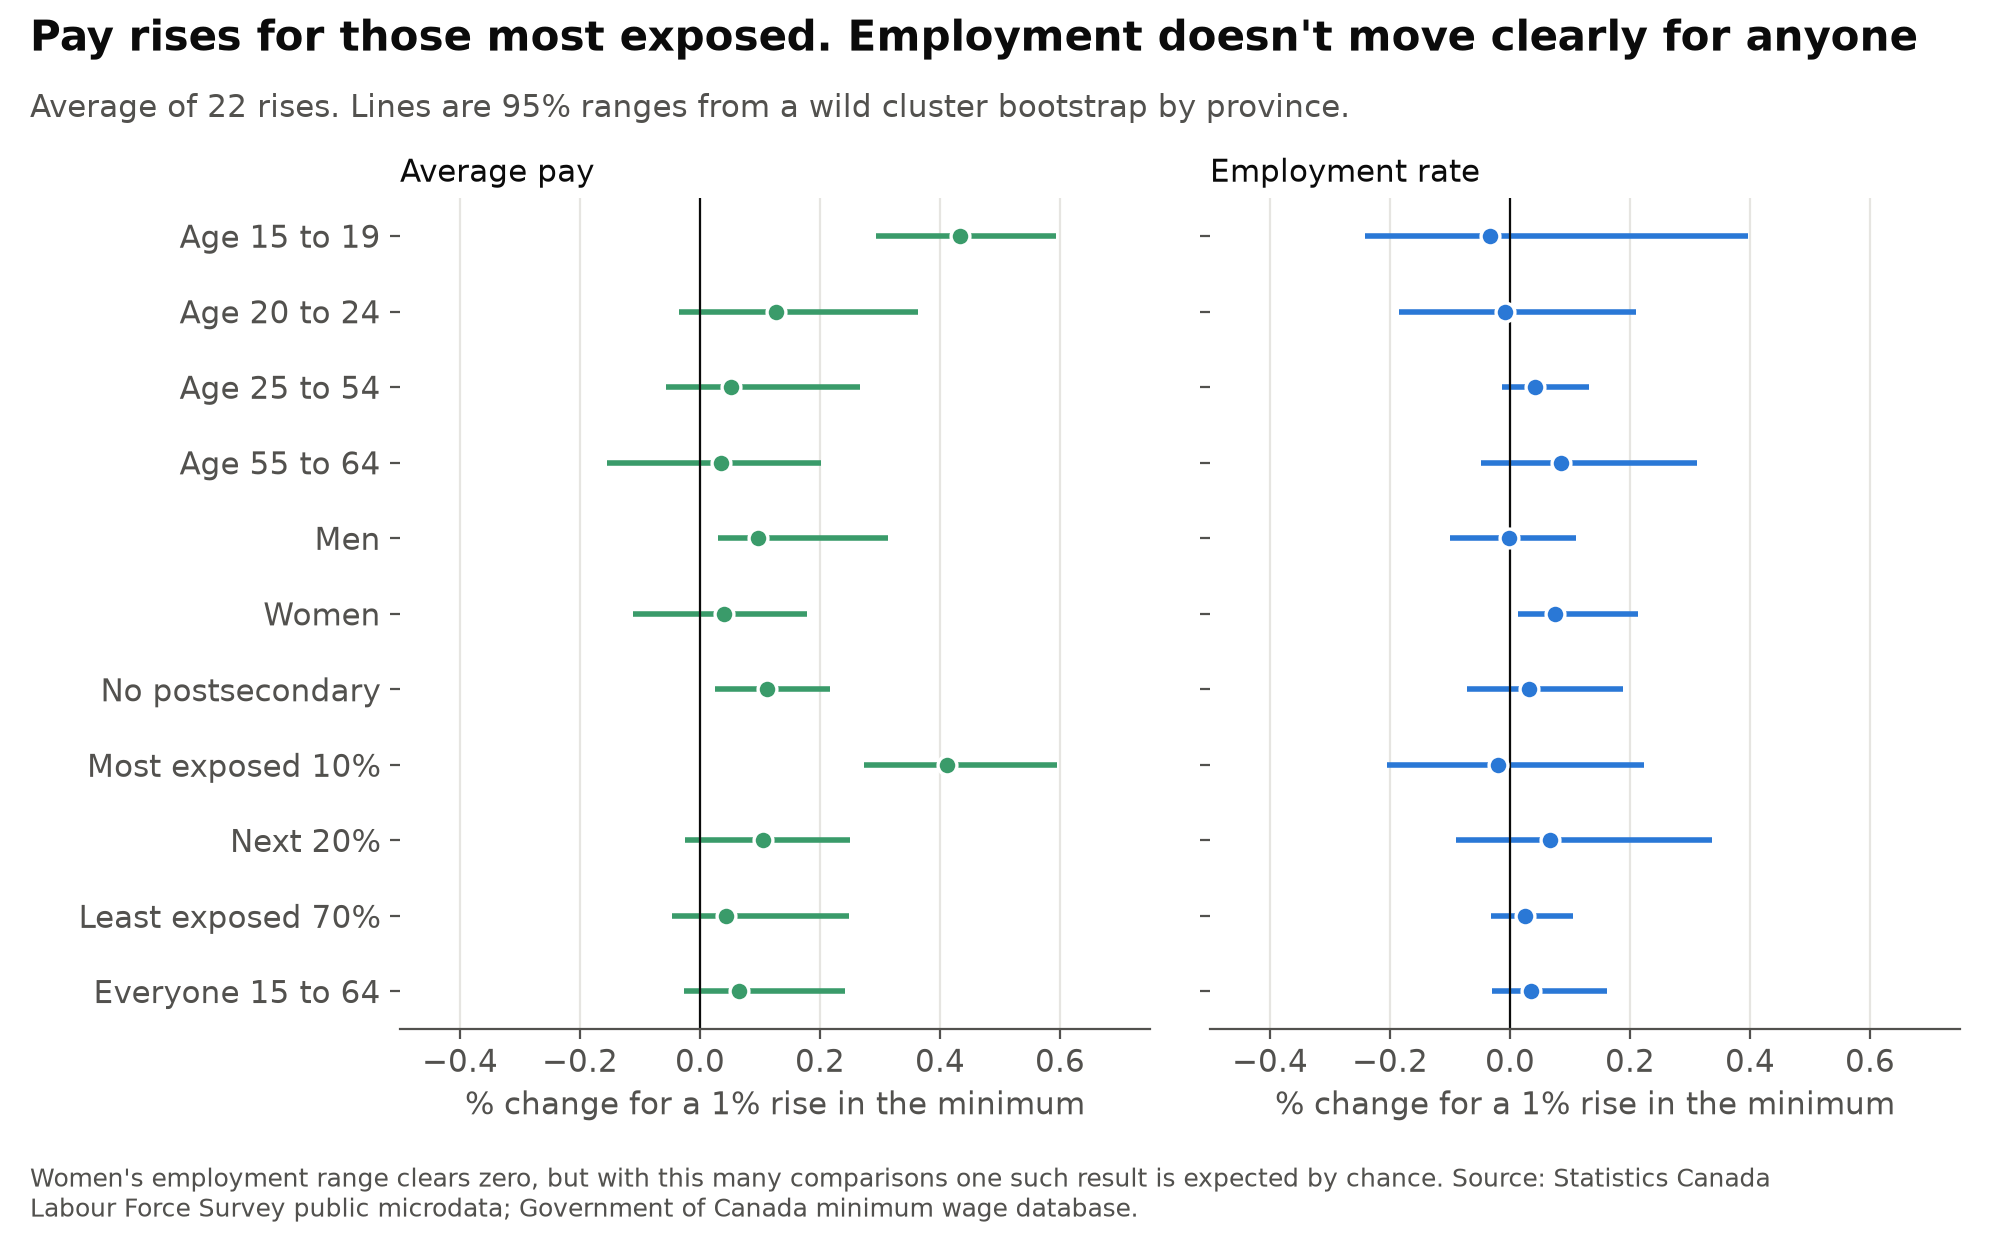
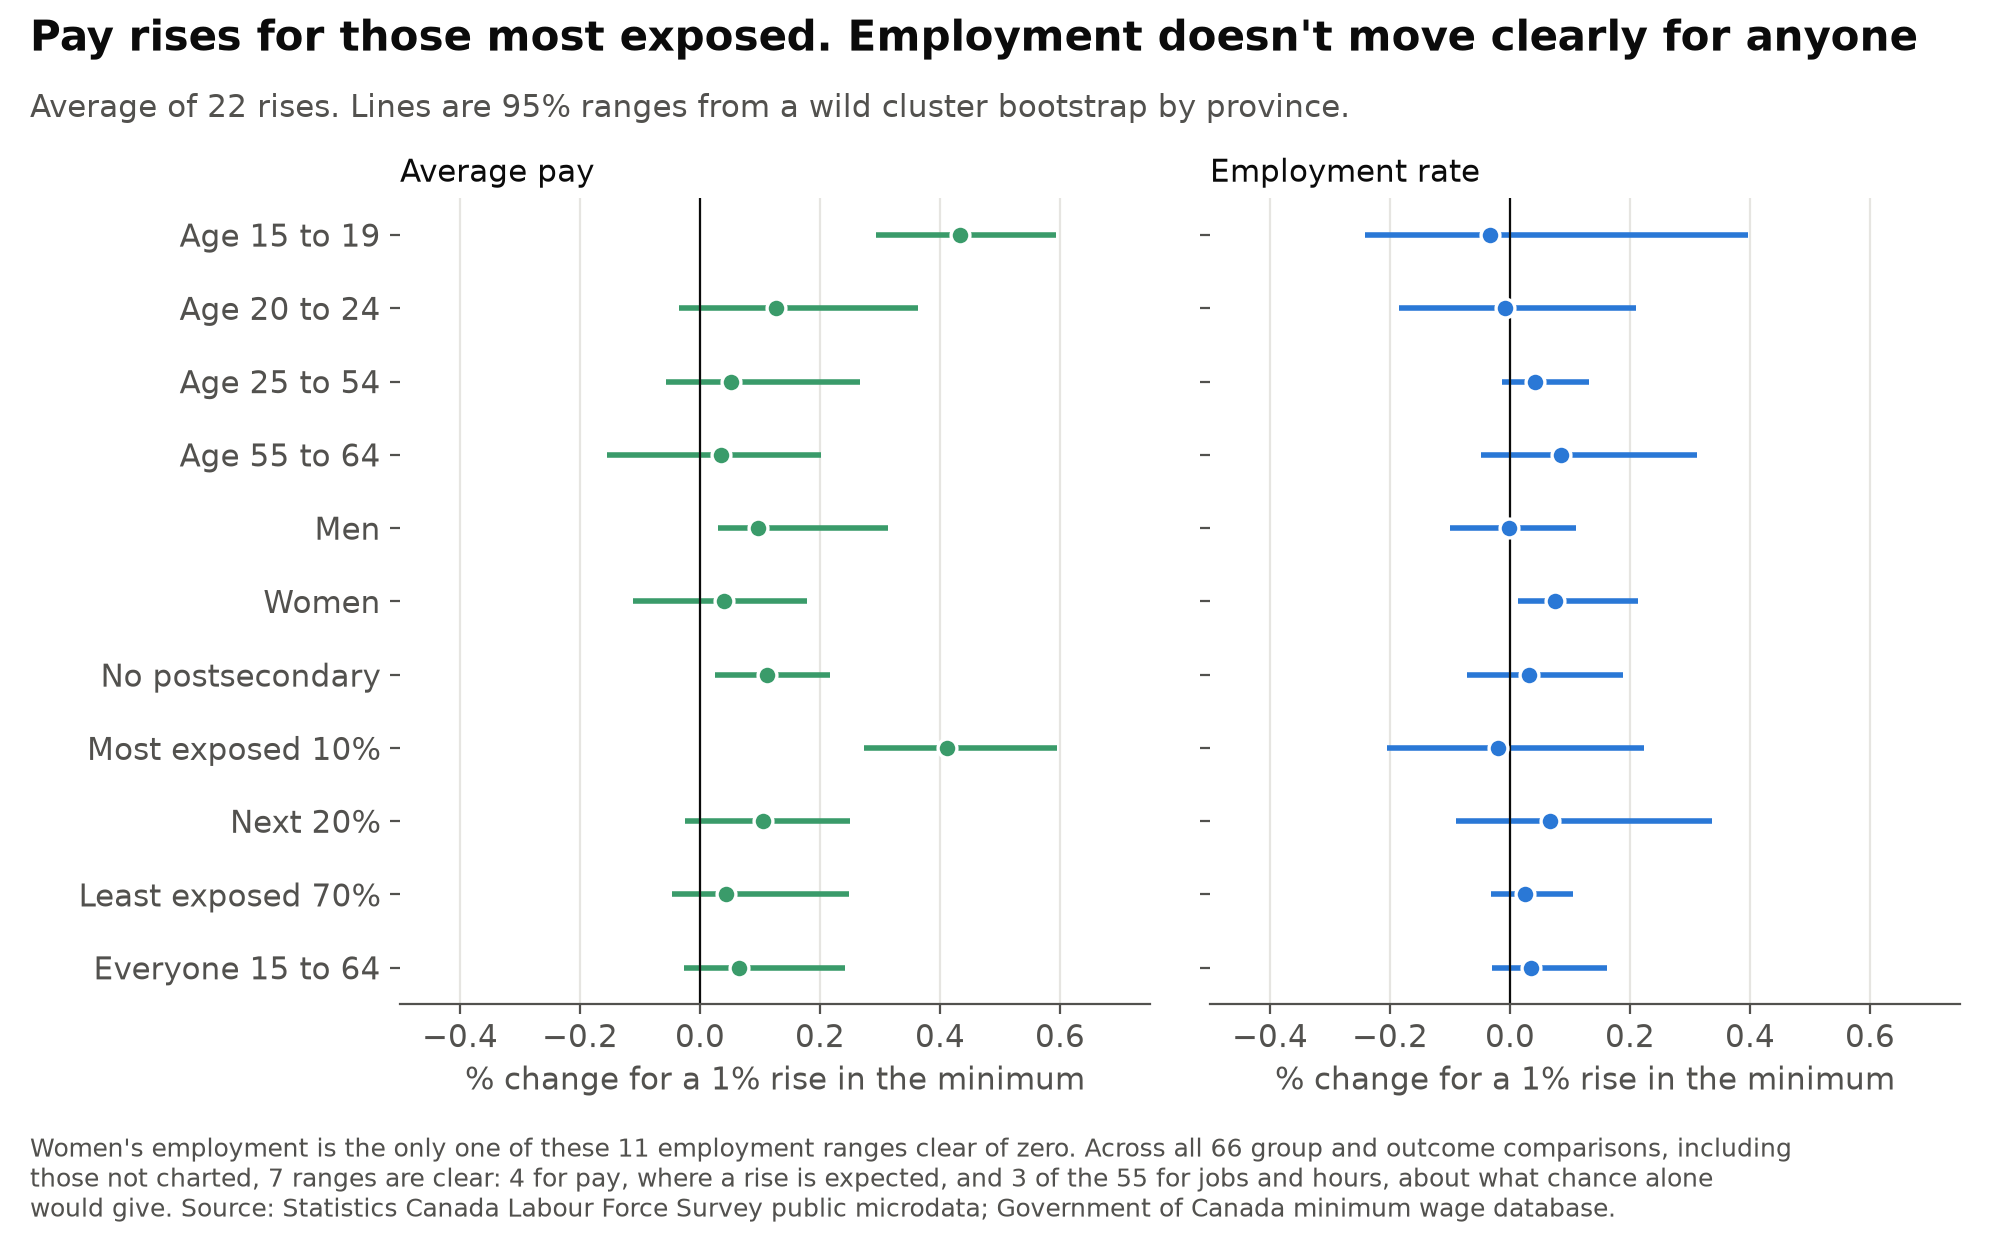
Say how many ranges clear zero across the group comparisons
Women's employment is the only one of 11 employment ranges clear of zero, but across all 66 group and outcome comparisons 7 are: 4 for pay and 3 of the 55 for jobs and hours, about what chance alone would give. The old wording in the README and the chart caption read as if only one range cleared zero in total.

diff --git a/figures.py b/figures.py
@@ -180,7 +180,7 @@ def groups():
     order = ["Age 15 to 19", "Age 20 to 24", "Age 25 to 54", "Age 55 to 64", "Men", "Women", "No postsecondary",
              "Exposure: highest 10%", "Exposure: next 20%", "Exposure: lowest 70%", "Everyone 15 to 64"]
     fig, axes = plt.subplots(1, 2, figsize=(10, 6.2), sharey=True)
-    fig.subplots_adjust(left=0.2, right=0.98, top=0.84, bottom=0.17, wspace=0.08)
+    fig.subplots_adjust(left=0.2, right=0.98, top=0.84, bottom=0.19, wspace=0.08)
     for ax, outcome, colour, title in ((axes[0], "wage", GREEN, "Average pay"), (axes[1], "employment", BLUE, "Employment rate")):
         g = el[el.outcome == outcome].set_index("group").loc[order]
         y = np.arange(len(order))[::-1]
@@ -196,7 +196,9 @@ def groups():
                             .replace("Exposure: lowest 70%", "Least exposed 70%") for o in order])
     save(fig, "groups.png", "Pay rises for those most exposed. Employment doesn't move clearly for anyone",
          f"Average of {len(pd.read_csv(OUTPUT / 'events.csv'))} rises. Lines are 95% ranges from a wild cluster bootstrap by province.",
-         "Women's employment range clears zero, but with this many comparisons one such result is expected by chance.\n" + SOURCE)
+         "Women's employment is the only one of these 11 employment ranges clear of zero. Across all 66 group and outcome comparisons, including "
+         "those not charted, 7 ranges are clear: 4 for pay, where a rise is expected, and 3 of the 55 for jobs and hours, about what chance "
+         "alone would give.\n" + SOURCE)
 
 
 def exposure():

diff --git a/README.md b/README.md
@@ -81,7 +81,9 @@ People without a job have no pay to measure, so looking only at low-paid workers
 
 ![Pay and employment by group](figures/groups.png)
 
-The most exposed 10% see average pay rise 0.41% per 1% rise (0.27 to 0.59), close to teens at 0.43% (0.29 to 0.59). Their employment moves by −0.02 (−0.21 to 0.22) and hours per person by −0.10 (−0.32 to 0.24). Within this group, jobs below the new minimum fall by 8.6 per 100 people and jobs just above rise by 8.6. Women's employment is the one range clear of zero, but among this many comparisons one such result is expected by chance.
+The most exposed 10% see average pay rise 0.41% per 1% rise (0.27 to 0.59), close to teens at 0.43% (0.29 to 0.59). Their employment moves by −0.02 (−0.21 to 0.22) and hours per person by −0.10 (−0.32 to 0.24). Within this group, jobs below the new minimum fall by 8.6 per 100 people and jobs just above rise by 8.6.
+
+In the chart's employment panel, women's employment is the only one of 11 ranges clear of zero (0.08, 0.01 to 0.21). Across all 66 group and outcome comparisons in `output/elasticities.csv`, 7 ranges are clear of zero. Four are for pay, where a rise is expected: teens, the most exposed 10%, men and people with no postsecondary education. The other three are among the 55 comparisons for jobs and hours: women's employment, the share of women who are employees, and food jobs in the next 20% by exposure. Chance alone would put about 3 of 55 outside a 95% range, so these three don't stand out as effects.
 
 ## Method
 
